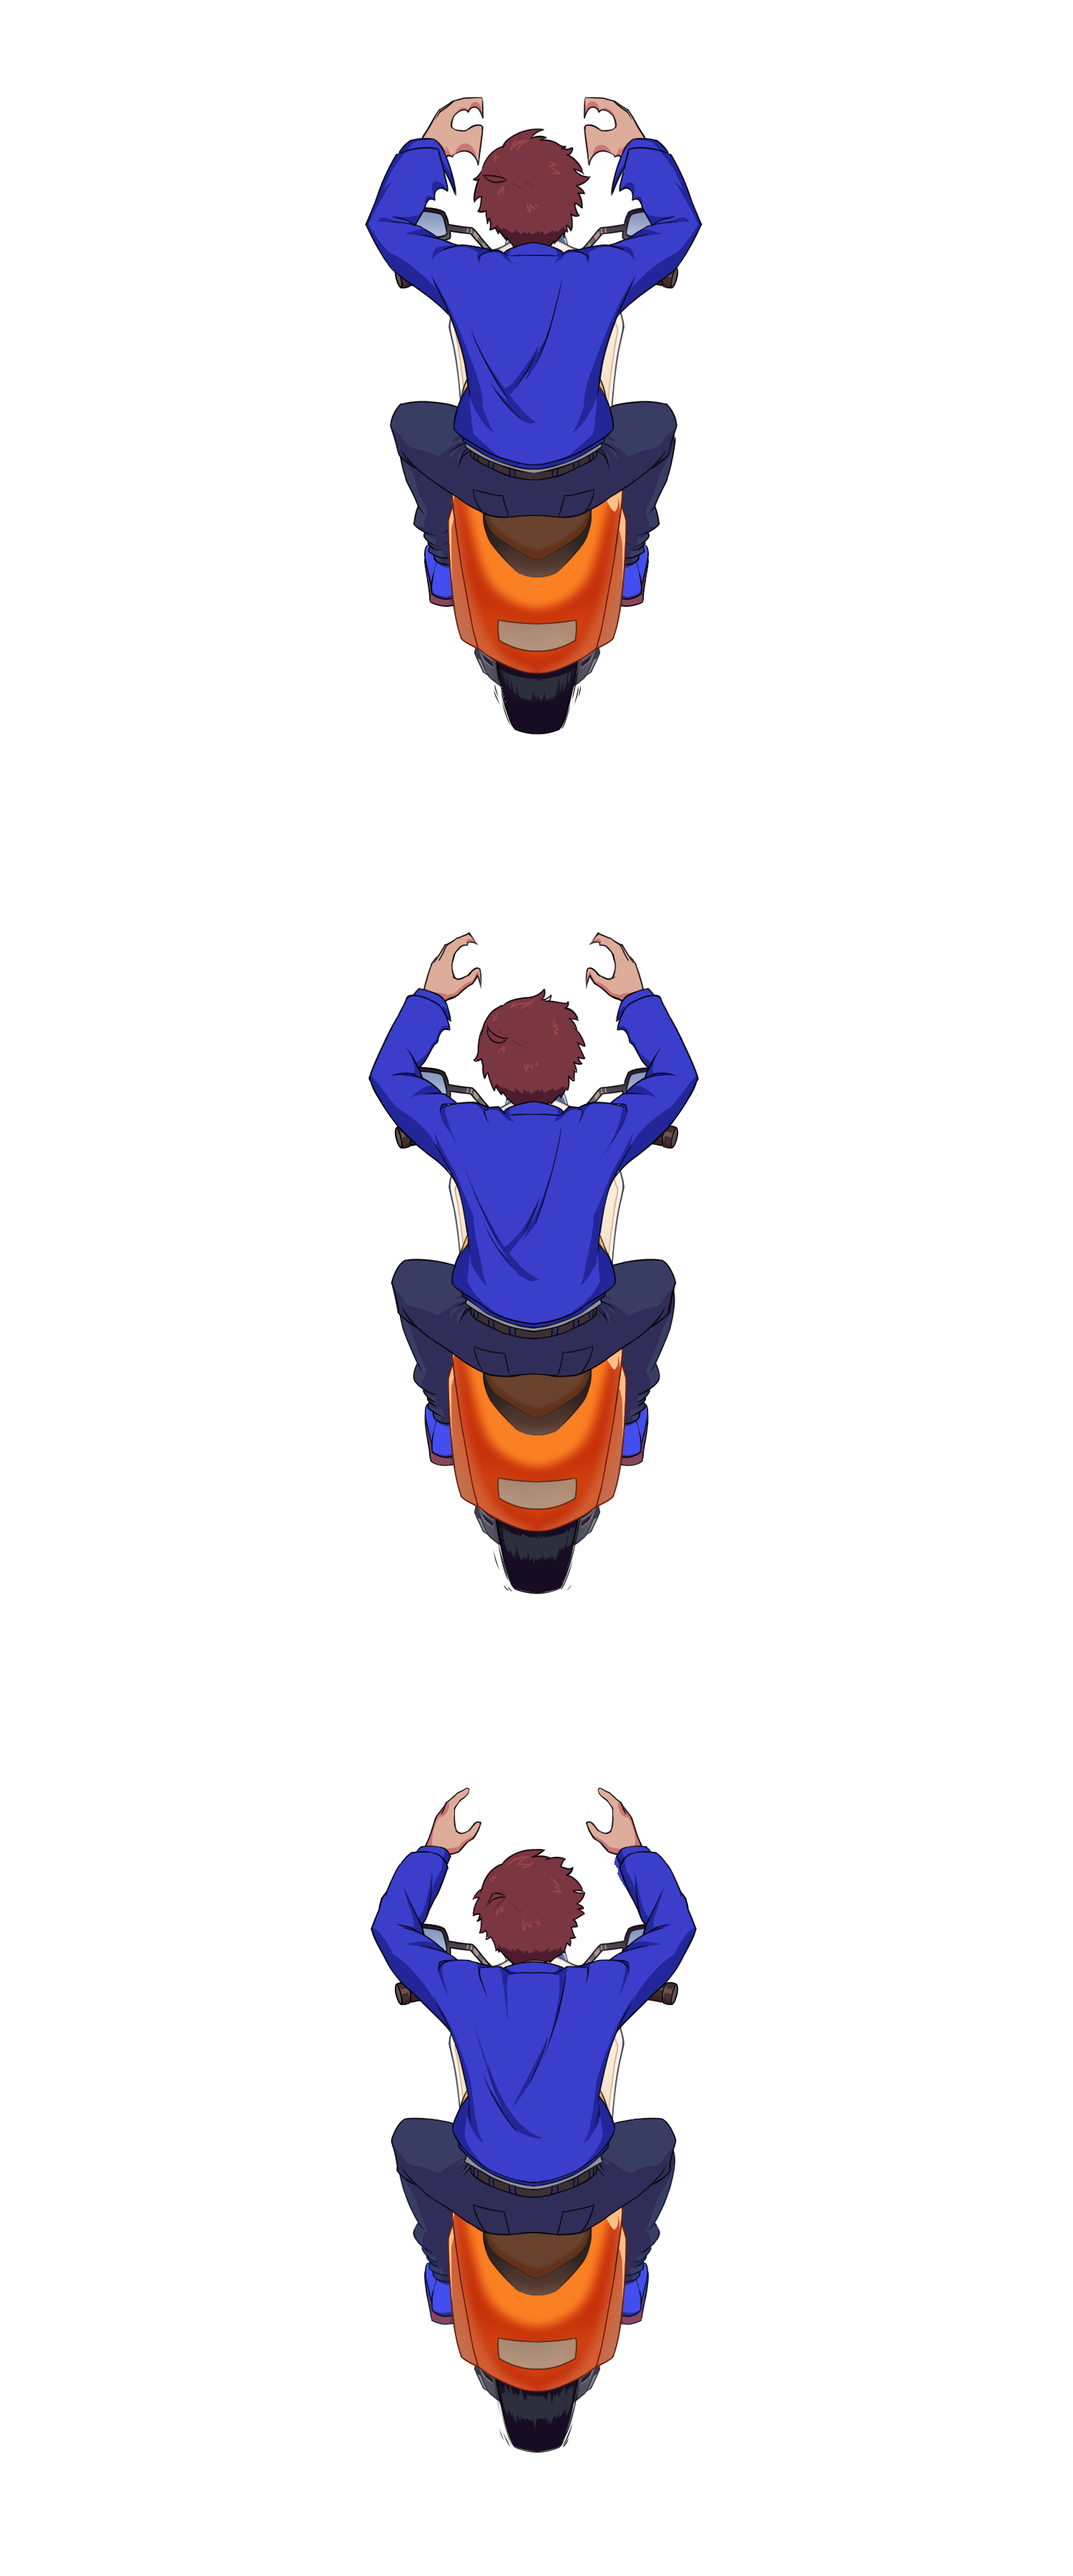
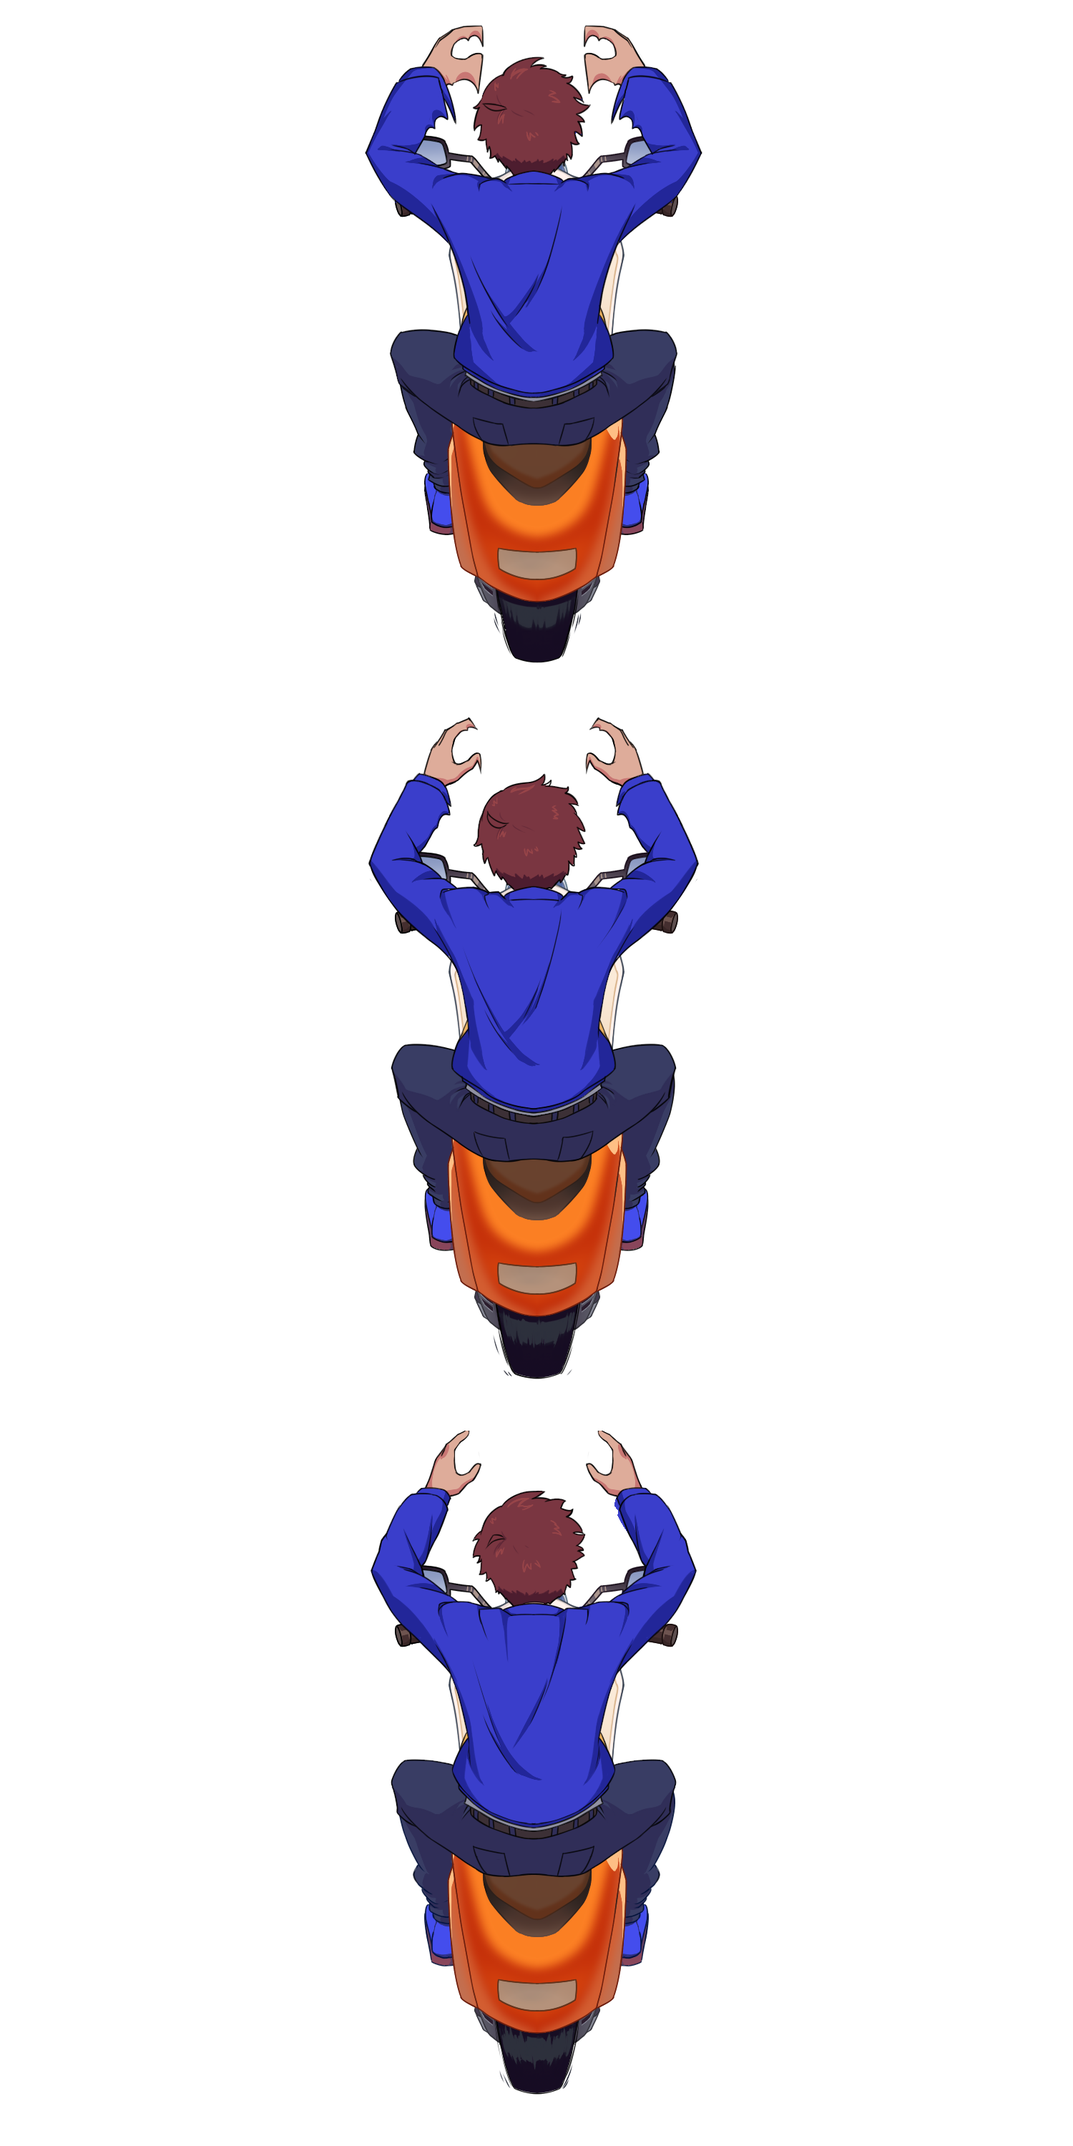
pause button

diff --git a/src/scripts/scenes/main.js b/src/scripts/scenes/main.js
@@ -18,11 +18,12 @@ export class MainScene extends Phaser.Scene
         this.load.image('imgBack', 'src/images/img_back.png');
         this.load.spritesheet('playerRun', 'src/images/playerRun.png', { frameWidth: 1500, frameHeight: 1000});
         this.load.spritesheet('playerTack', 'src/images/playerTack.png', { frameWidth: 1500, frameHeight: 1000});
-        this.load.spritesheet('playerReceive', 'src/images/playerReceive.png', { frameWidth: 1500, frameHeight: 1200});
-        this.load.spritesheet('playerSend', 'src/images/playerSend.png', { frameWidth: 1500, frameHeight: 1200});
+        this.load.spritesheet('playerReceive', 'src/images/playerReceive.png', { frameWidth: 1500, frameHeight: 1000});
+        this.load.spritesheet('playerSend', 'src/images/playerSend.png', { frameWidth: 1500, frameHeight: 1000});
 
         //UI
         this.load.image('deliveryButton', 'src/images/UI/boton_regalo.png');
+        this.load.image('pauseButton', 'src/images/UI/boton_pausa.png');
         this.load.image('panel', 'src/images/UI/panel.png');
         this.load.atlas('panelUI', 'src/images/UI/panelUI.png', 'src/images/UI/panelUI.json');
 
@@ -47,13 +48,14 @@ export class MainScene extends Phaser.Scene
     }
 
     create(){
-        // backgrounds
-        this.sprBack = this.add.image(this.data.get('screen_c'), this.data.get('screen_c'), 'imgBack');
+        this.dim = this.data.get('screen');
 
-        // array of sprites that will be "manually" drawn on a rendering texture
-        // (that's why they must invisible after the creation)
-        this.sprites = [
-        ]
+        // backgrounds
+        let sprBack = this.add.image(this.dim/2, this.dim/2, 'imgBack');
+        let pauseButton = this.add.image(this.dim - 100, 130, 'pauseButton').setInteractive();
+        pauseButton.on('pointerdown', () => this.pauseGame());
+        pauseButton.setDepth(9)
+        pauseButton.setDisplaySize(50, 50);
 
         // inputs
         this.keyDelivery = this.input.keyboard.addKey('SPACE');
@@ -97,6 +99,8 @@ export class MainScene extends Phaser.Scene
         });
         
         this.isPaused = false;
+        this.startAnim = true;
+        this.startEvent = null;
 
         // instances
         this.circuit = new Circuit(this);
@@ -115,16 +119,18 @@ export class MainScene extends Phaser.Scene
                     this.data.set('state', "restart");
                     break;
                 case "restart":
-                    if (this.scoreboard.timedEvent == undefined && this.scoreboard.startAnim){
+                    if (this.startEvent == undefined && this.startAnim){
                         this.circuit.create();
                         this.scoreboard.create();
                         this.circuit.render3D();
 
-                        this.panel.create(this.data.get('screen'));
-                        this.panel.createPausePanel(this.data.get('screen'));
-                        this.panel.createOptionsPanel(this.data.get('screen'));
+                        this.start(this.dim);
+
+                        this.panel.create(this.dim);
+                        this.panel.createPausePanel(this.dim);
+                        this.panel.createOptionsPanel(this.dim);
                     }
-                    if (!this.scoreboard.startAnim) {
+                    if (!this.startAnim) {
                         this.player.restart();
                         this.data.set('state', "play");
                     }
@@ -146,8 +152,45 @@ export class MainScene extends Phaser.Scene
         if (Phaser.Input.Keyboard.JustDown(this.keyDelivery)){
             this.player.checkDelivery();
         }
-        if (Phaser.Input.Keyboard.JustDown(this.keyPause)){
+        if (Phaser.Input.Keyboard.JustDown(this.keyPause) && !this.startAnim){
             this.pauseGame();
+        }
+    }
+
+    start(){
+        this.startCounter = 3;
+
+        this.startText = this.add.text(0, 0, this.startCounter, { fontSize : 400, fontFamily: 'Georgia, "Goudy Bookletter 1911", Times, serif' });
+        this.startText.setPosition(this.dim/2 - this.startText.width/2, this.dim/2 - this.startText.height/1.5);
+        this.startText.setFill("black");
+        this.startText.setDepth(11);
+
+        this.startBG = this.add.image(this.dim/2,this.dim/2, 'imgBack').setInteractive();
+        this.startBG.setAlpha(0.01);
+        this.startBG.setDepth(11);
+        this.startBG.setDisplaySize(this.dim, this.dim);
+
+        //Each 1000 ms call onEvent
+        this.startEvent = this.time.addEvent({ delay: 1000, callback: this.startAnimation, callbackScope: this, loop: true });
+    }
+
+    startAnimation(){
+        this.startCounter -= 1;
+
+        if (this.startCounter == 0){ 
+            this.startText.setFontSize(250);
+            this.startText.setText('Corre!');
+            this.startText.setPosition(this.dim/2 - this.startText.width/2, this.dim/2 - this.startText.height/1.5);
+        }
+        else if (this.startCounter > 0){
+            this.startText.setText(this.startCounter);
+        }
+        else{
+            this.startText.setVisible(false);
+            this.startBG.setVisible(false);
+            this.startAnim = false;
+            this.startEvent.destroy();
+            this.startEvent = undefined;
         }
     }
 

diff --git a/src/scripts/components/scoreboard.js b/src/scripts/components/scoreboard.js
@@ -3,47 +3,17 @@ export class Scoreboard
     constructor(scene){
         // reference to the main scene
         this.scene = scene;
-        this.startCounter = 3;
-        this.timedEvent = undefined;
-        this.startAnim = true;
     }
 
     create(){
-        this.scoreText = this.scene.add.text(this.scene.data.get('screen') - 400, 50, 'Puntaje: ', { fontSize : 50, fontFamily: 'Georgia, "Goudy Bookletter 1911", Times, serif' });
+        this.scoreText = this.scene.add.text(this.scene.data.get('screen') - 400, 30, 'Puntaje: ', { fontSize : 50, fontFamily: 'Georgia, "Goudy Bookletter 1911", Times, serif' });
         this.scoreText.setFill("black");
         this.scoreText.setDepth(5);
-
-        this.startText = this.scene.add.text(0, 0, this.startCounter, { fontSize : 400, fontFamily: 'Georgia, "Goudy Bookletter 1911", Times, serif' });
-        this.startText.setPosition(this.scene.data.get('screen_c') - this.startText.width/2, this.scene.data.get('screen_c') - this.startText.height/1.5);
-        this.startText.setFill("black");
-        this.startText.setDepth(5);
-
-        //Each 1000 ms call onEvent
-        this.timedEvent = this.scene.time.addEvent({ delay: 1000, callback: this.startAnimation, callbackScope: this, loop: true });
     }
 
     update(){
         this.scoreText.setText('Puntaje: ' + this.scene.player.score);
         if (this.scoreText.width > 350) 
             this.scoreText.setPosition(this.scene.data.get('screen') - this.scoreText.width - 50, 50);
-    }
-
-    startAnimation(){
-        this.startCounter -= 1;
-
-        if (this.startCounter == 0){ 
-            this.startText.setFontSize(250);
-            this.startText.setText('Corre!');
-            this.startText.setPosition(this.scene.data.get('screen_c') - this.startText.width/2, this.scene.data.get('screen_c') - this.startText.height/1.5);
-        }
-        else if (this.startCounter > 0){
-            this.startText.setText(this.startCounter);
-        }
-        else{
-            this.startText.setVisible(false);
-            this.startAnim = false;
-            this.timedEvent.destroy();
-            this.timedEvent = undefined;
-        }
     }
 }

diff --git a/src/scripts/components/panel.js b/src/scripts/components/panel.js
@@ -6,9 +6,16 @@ export class Panel
     }
 
     create(dim){
+        let bg = this.scene.add.image(dim/2, dim/2, 'panel').setInteractive();
+        bg.setTint('0x000000');
+        bg.setAlpha(0.1);
+        bg.setScale(2);
+
         this.panel = this.scene.add.nineslice(dim/2, dim/2, 'panel', 0, 1210, 1230, 200, 200, 200, 200);
-        this.panel.setVisible(false);
-        this.panel.setDepth(10);
+
+        this.panelContainer = this.scene.add.container(0, 0, [bg, this.panel]);
+        this.panelContainer.setDepth(10);
+        this.panelContainer.setVisible(false);
 
         this.pauseContainer;
     }
@@ -164,33 +171,33 @@ export class Panel
     showInstructions(){
         if(this.scene.data.get('IS_TOUCH')) this.instructionsText.setText(this.instructionsMobileContent[this.instructionIndex]);
         this.instructionsContainer.setVisible(true);
-        this.panel.setVisible(true);
+        this.panelContainer.setVisible(true);
     }
 
     hideInstructions(){
         this.instructionsContainer.setVisible(false);
-        this.panel.setVisible(false);
+        this.panelContainer.setVisible(false);
     }
 
     showOptions(){
         this.optionsContainer.setVisible(true);
-        this.panel.setVisible(true);
+        this.panelContainer.setVisible(true);
     }
 
     hideOptions(){
         this.optionsContainer.setVisible(false);
-        this.panel.setVisible(false);
+        this.panelContainer.setVisible(false);
 
         if (this.pauseContainer!= null) this.showPause();
     }
 
     showPause(){
         this.pauseContainer.setVisible(true);
-        this.panel.setVisible(true);
+        this.panelContainer.setVisible(true);
     }
 
     hidePause(){
         this.pauseContainer.setVisible(false);
-        this.panel.setVisible(false);
+        this.panelContainer.setVisible(false);
     }
 }
